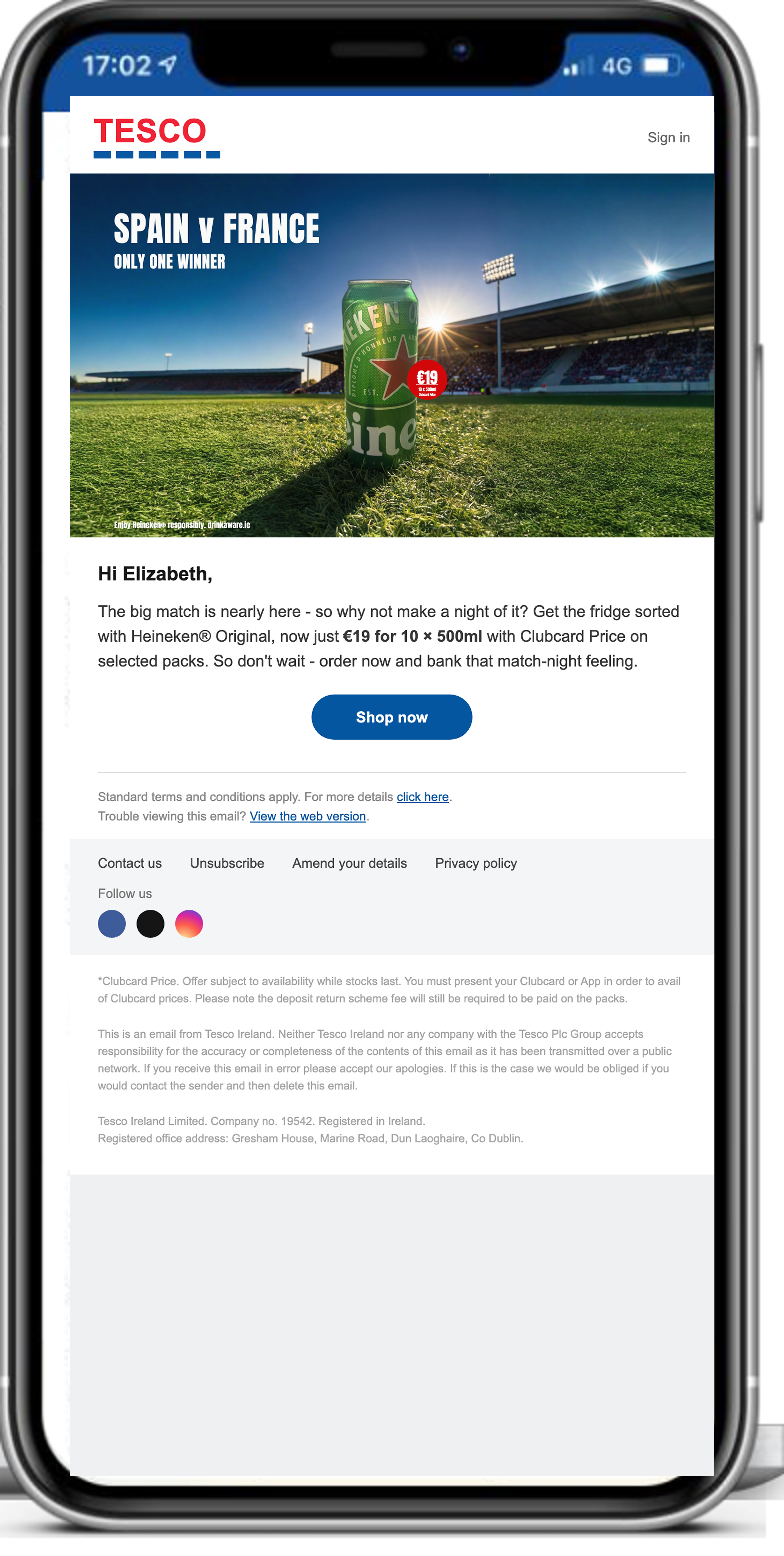
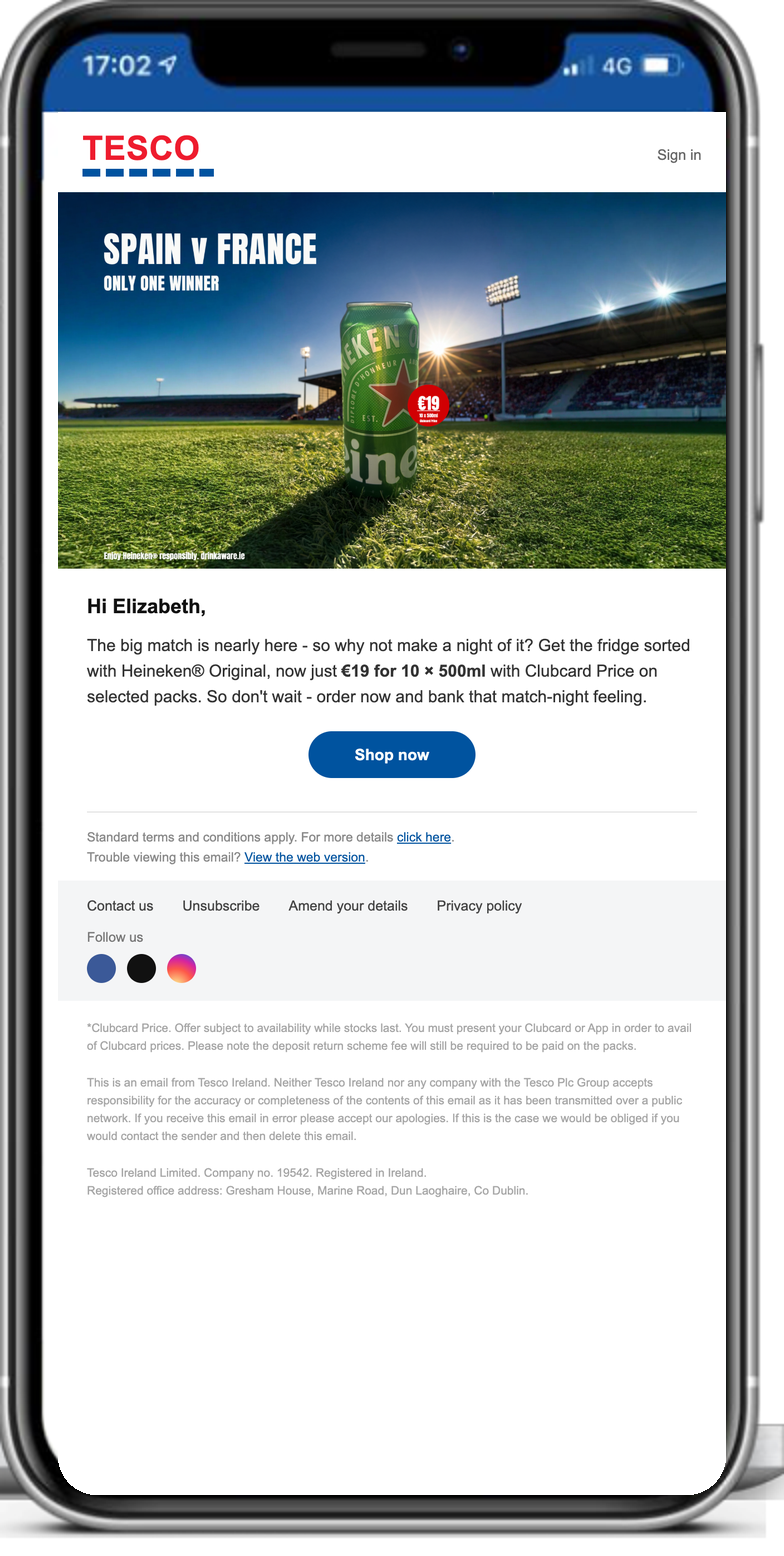
Retail media: tighten pitch page + fix in-situ shots
- Remove the remake cluster (bundle, remade-from-fingerprint, two typed
  lines) and the intro copy; page now runs journey -> placements -> email
  -> gate -> in-situ -> fingerprint -> how it works
- Scoreboard node 9 (Goal post): honest in-progress status, drop dead anchor
- Rebuild in-situ composites: totem (ad flush to screen) and email
  (fills the phone, seamless white, rounded corners)
- Drop the in-situ gate composite (reads as pasted; awaiting a better base
  photo - compositor is kept for reuse)
- Fingerprint slider: unify to one font (original re-set to match the
  rebuild, so it reads as a rebuild match, not a font swap)

Changed region(s): [[0.0612, 0.0617, 0.949, 0.9871], [0.0612, 0.9254, 0.1224, 0.9563]]

diff --git a/src/app/retail-media/data.ts b/src/app/retail-media/data.ts
@@ -9,13 +9,12 @@ export const meta: Meta = {
   client: "Retail Media",
   slug: "retail-media",
   headline: "One campaign, every Tesco placement",
-  intro:
-    "A worked example on the Heineken brand. We fingerprint a brand's retail ads once, then remake them with different products, offers and messages in minutes. Below: the full Tesco shopper journey, then each placement up close, rebuilt and remade.",
+  intro: "",
   lastUpdated: "2026-07-15",
   hideProgress: true,
   zoneIntros: {
     deliverables: "The twelve touchpoints of the Tesco shopper journey, and where each one stands.",
-    work: "The journey first, then each placement up close: the original, our rebuild, and the remake.",
+    work: "The journey first, then each placement up close, then the fingerprint: the original and our rebuild.",
   },
 };
 
@@ -29,7 +28,7 @@ export const deliverables: Deliverable[] = [
   { name: "6 · Totem screens", detail: "Same portrait chassis, directional to the drinks aisle", status: "ready", anchor: "cw-s-each-placement-up-close", note: "Runs on the same portrait chassis as the JCD screen." },
   { name: "7 · Hanging boards", detail: "Landscape, arrow directional", status: "in-progress", note: "Landscape plate registered; creative in build." },
   { name: "8 · Power aisle screen", detail: "Wide digital strip", status: "in-progress", note: "Same landscape/band family; sized after the boards land." },
-  { name: "9 · Goal post screens", detail: "Cross-collaboration bundle: brand x Tesco partner pack", status: "ready", anchor: "cw-s-the-bundle-remade-in-one-line", note: "Pair built and gated. Hi-res pack shot swap pending." },
+  { name: "9 · Goal post screens", detail: "Cross-collaboration bundle: brand x Tesco partner pack", status: "in-progress", note: "Bundle creative in rebuild." },
   { name: "10 · BWS gate, outside", detail: "Print gate panel, 0.0 message only outside the zone", status: "in-progress", note: "In build: needs a real 0.0 pack shot before the panel is made - we don't fake the product." },
   { name: "11 · BWS gate, inside", detail: "Print gate panel, full alcohol message inside", status: "ready", anchor: "cw-s-bws-gate-inside", note: "Landscape gate panel built off the registered plate, carrying the €19 offer." },
   { name: "12 · BWS special build", detail: "In-bay screens, sound on", status: "todo" },
@@ -75,7 +74,7 @@ export const work: WorkSection[] = [
     item: { src: "node11-gate-inside.png", w: 620, ratio: "1920 / 1080" } },
 
   { title: "In the real world", kind: "media", badge: "In situ",
-    desc: "The same campaign as a shopper actually meets it: on the in-store screen, in the inbox on a phone, on the drinks-zone gate, and onsite on Tesco.ie. Each one is our creative rebuilt into the real placement, from a photo of that placement.",
+    desc: "The same campaign as a shopper actually meets it: on the in-store screen, in the inbox on a phone, and onsite on Tesco.ie. Each one is our creative rebuilt into the real placement, from a photo of that placement.",
     wideDesc: true,
     layout: "grouped",
     groups: [
@@ -83,8 +82,6 @@ export const work: WorkSection[] = [
         items: [ { src: "insitu-totem.png", w: 340, ratio: "1250 / 2130" } ] },
       { label: "In the inbox · eCRM email on a phone",
         items: [ { src: "insitu-email.png", w: 330, ratio: "784 / 1556" } ] },
-      { label: "The BWS security gate",
-        items: [ { src: "insitu-gate.png", w: 560, ratio: "890 / 914" } ] },
       { label: "Onsite · Tesco.ie search",
         items: [ { src: "insitu-onsite.png", w: 940, ratio: "2912 / 1800", cap: "Sponsored hero banner and MPU on the live results page - the €19 Clubcard price in the grid is real." } ] },
     ] },
@@ -101,37 +98,6 @@ export const work: WorkSection[] = [
       labelAfter: "Rebuilt by the machine",
       download: false,
     } },
-
-  { title: "One typed line", kind: "html", badge: "The method",
-    html: `<div class="rmiA"><style>
-      .rmiA .tbox{font-family:'SF Mono',Menlo,monospace;font-size:13px;background:#14140F;color:#D9F5C9;padding:12px 16px;max-width:720px;}
-      .rmiA .t{display:inline-block;overflow:hidden;white-space:nowrap;vertical-align:bottom;width:0;border-right:8px solid #D9F5C9;animation:rmiA-type 2.6s steps(66,end) .5s forwards, rmiA-blink 1s step-end infinite;}
-      @keyframes rmiA-type{to{width:66ch;}}
-      @keyframes rmiA-blink{50%{border-color:transparent;}}
-    </style><div class="tbox"><span class="t">&gt; swap the line to "Get the team together"; sub to "Don't forget the 0.0"</span></div></div>` },
-
-  { title: "Remade from the fingerprint", kind: "media", badge: "The method",
-    desc: "The same locked structure carrying the typed change. This shows the swap capability on the fingerprinted structure; the version that also swaps the product and the scene is in final production. The retail placements in the journey get their own placement-native creative, not this piece.",
-    wideDesc: true,
-    layout: "single",
-    item: { src: "remake-get-the-team-together.png", w: 380, ratio: "786 / 1102", cap: "Same structure, new line: Get the team together / Don't forget the 0.0." } },
-
-  { title: "One typed line, again", kind: "html", badge: "Placement 9 · Goal post screens",
-    html: `<div class="rmiB"><style>
-      .rmiB .tbox{font-family:'SF Mono',Menlo,monospace;font-size:13px;background:#14140F;color:#D9F5C9;padding:12px 16px;max-width:720px;}
-      .rmiB .t{display:inline-block;overflow:hidden;white-space:nowrap;vertical-align:bottom;width:0;border-right:8px solid #D9F5C9;animation:rmiB-type 2.2s steps(52,end) .5s forwards, rmiB-blink 1s step-end infinite;}
-      @keyframes rmiB-type{to{width:52ch;}}
-      @keyframes rmiB-blink{50%{border-color:transparent;}}
-    </style><div class="tbox"><span class="t">&gt; swap product to 0.0 cans; panel to 0.0 blue; same deal</span></div></div>` },
-
-  { title: "The bundle, remade in one line", kind: "media", badge: "Placement 9 · Goal post screens",
-    desc: "A Tesco bundle ad built in the real placement's grammar: the panel geometry is measured off a live Tesco ad, the products are official pack shots, the Drinkaware strip is the real mark. Left to right: one typed instruction swaps the product to 0.0 cans and keys the panel to the 0.0 colourway. Nothing else changed, nothing else needed to.",
-    wideDesc: true,
-    layout: "grouped",
-    groups: [
-      { label: "Heineken Original x Tesco Finest", items: [ { src: "bundle-original-x-finest.png", w: 470, ratio: "1144 / 860" } ] },
-      { label: "The remake: 0.0, one typed line later", items: [ { src: "bundle-00-swap.png", w: 470, ratio: "1144 / 860" } ] },
-    ] },
 
   { title: "How it works: calibrate once, produce always", kind: "copy", badge: "The machine",
     desc: "",
